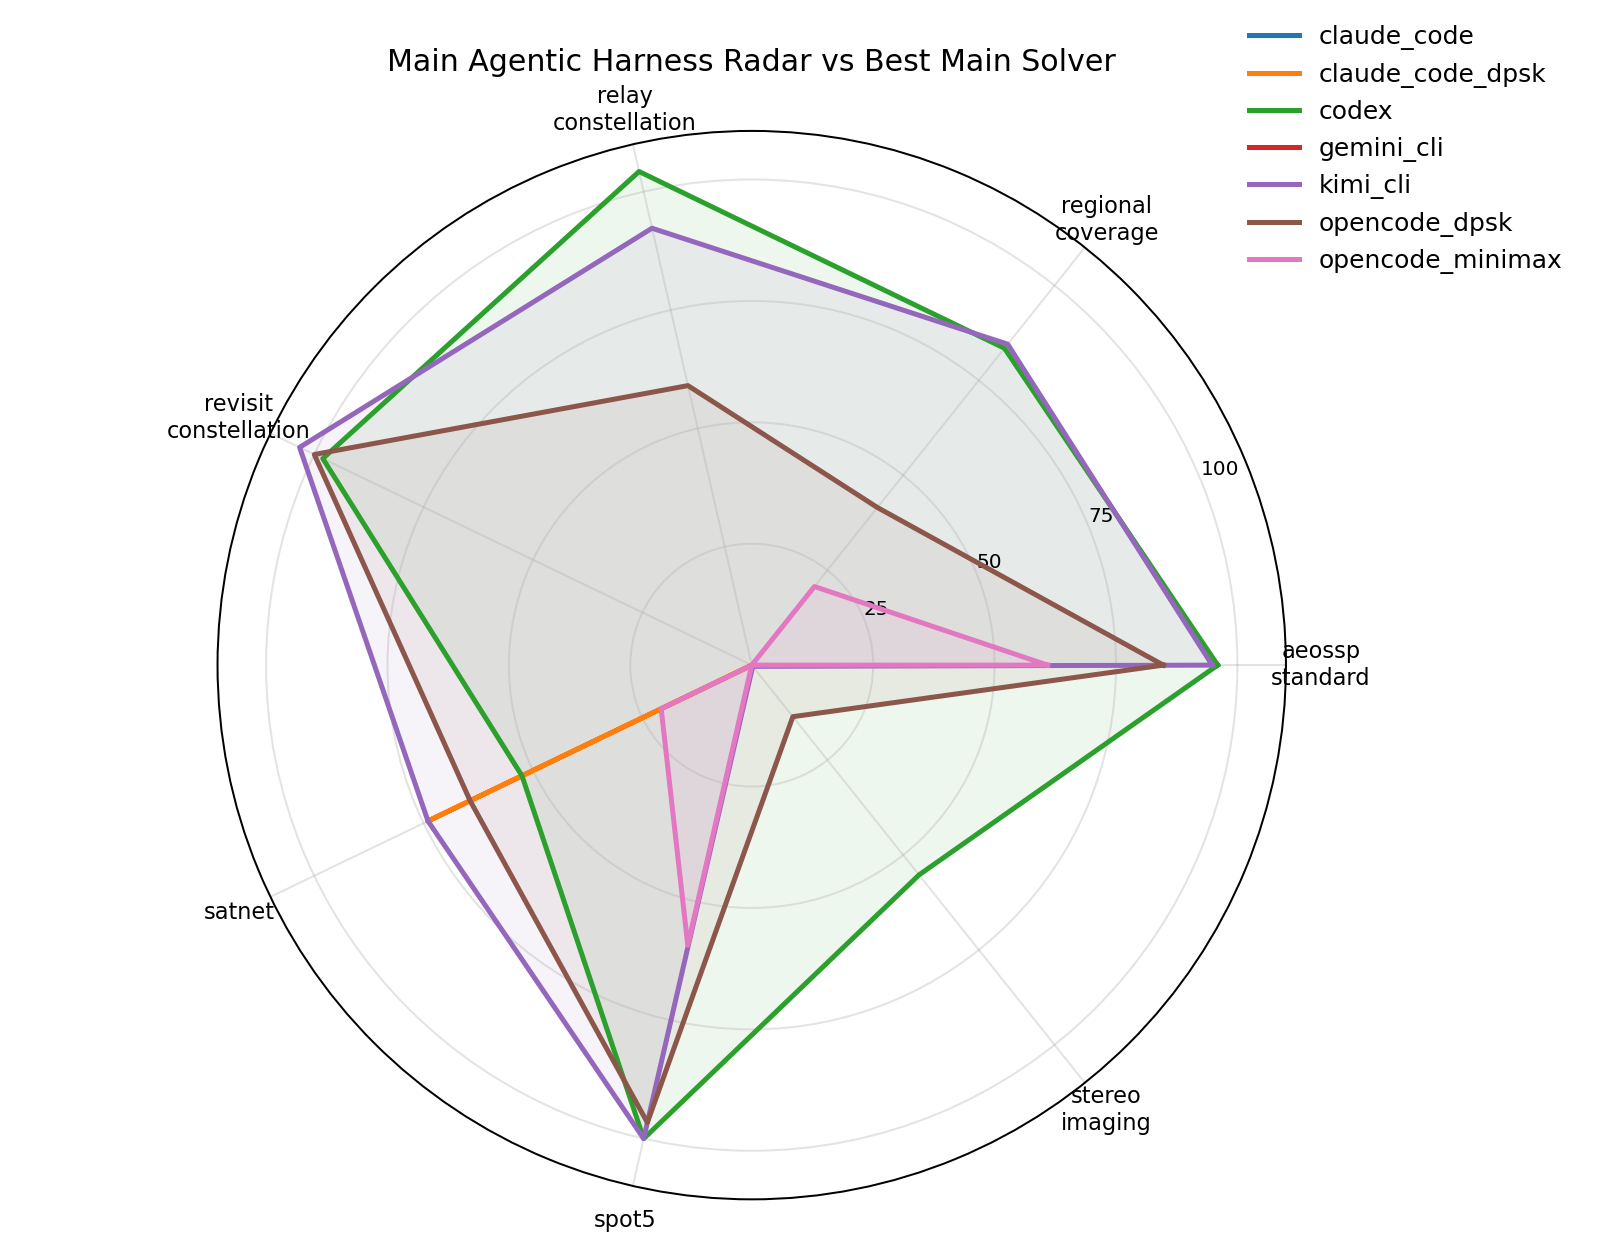
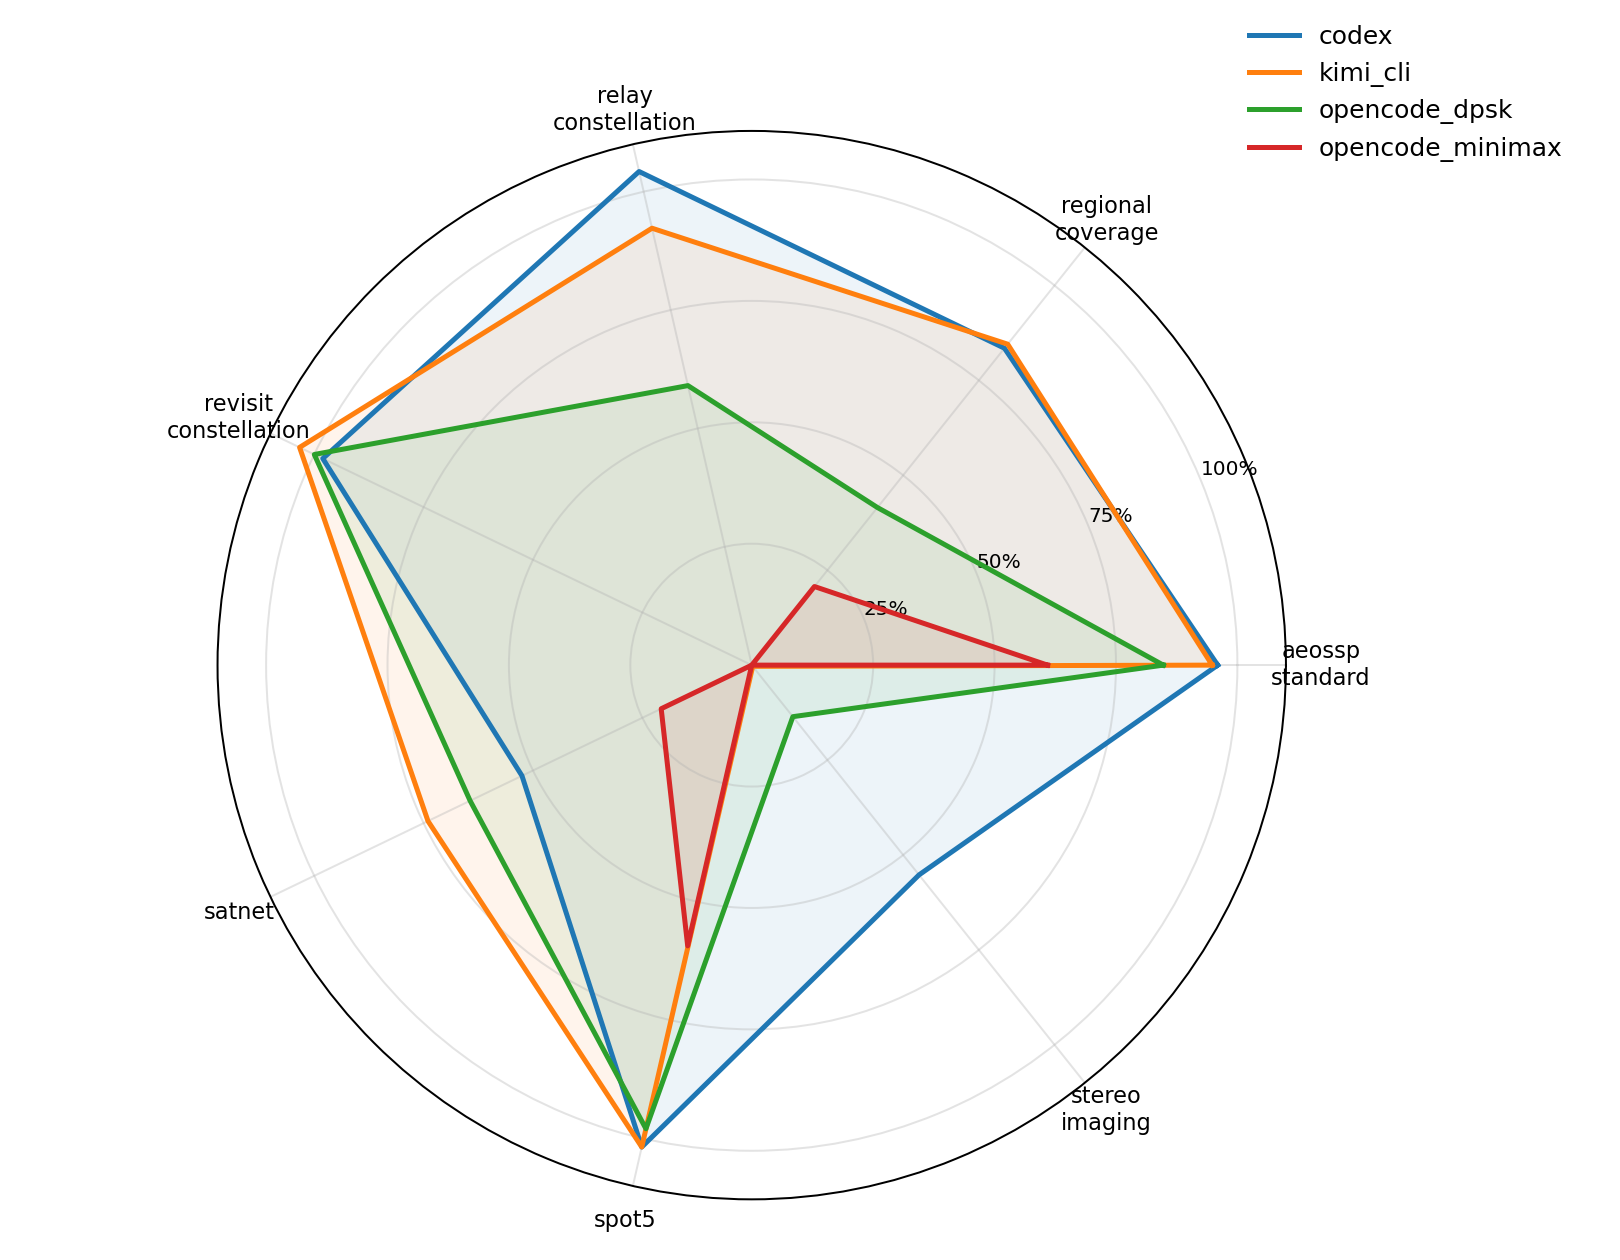
Fix SPOT5 normalized score denominator

diff --git a/experiments/main_agentic/plot_radar.py b/experiments/main_agentic/plot_radar.py
@@ -337,29 +337,6 @@ def _normalization_config(
     return config if isinstance(config, dict) else {}
 
 
-def _case_total_possible_profit(
-    baseline_data: dict[str, object],
-    *,
-    split: str,
-    case_id: str,
-) -> float | None:
-    best_profit: float | None = None
-    for row in _baseline_rows(baseline_data):
-        if (
-            row.get("benchmark") != "spot5"
-            or row.get("split") != split
-            or str(row.get("case_id")) != case_id
-        ):
-            continue
-        metrics = row.get("metrics")
-        if not isinstance(metrics, dict):
-            continue
-        profit = score_norm.to_float(metrics.get("computed_profit"))
-        if profit is not None:
-            best_profit = profit if best_profit is None else max(best_profit, profit)
-    return best_profit
-
-
 def _normalized_score_pct(
     *,
     benchmark: str,
@@ -431,11 +408,7 @@ def _normalized_score_pct(
     if benchmark == "spot5":
         return score_norm.spot5_score_pct(
             computed_profit=metrics.get("computed_profit"),
-            total_possible_profit=_case_total_possible_profit(
-                baseline_data,
-                split=split,
-                case_id=case_id,
-            ),
+            total_possible_profit=family_aggregate._spot5_max_profit(split, case_id),
         )
     if benchmark == "stereo_imaging":
         return score_norm.stereo_imaging_score_pct(
@@ -583,8 +556,7 @@ def _plot_radar(
     ax.set_xticklabels(labels, fontsize=9)
     ax.set_ylim(0, radial_max)
     ax.set_yticks([tick for tick in (25, 50, 75, 100) if tick <= radial_max])
-    ax.set_yticklabels([str(tick) for tick in ax.get_yticks()], fontsize=8)
-    ax.set_title("Main Agentic Harness Radar vs Best Main Solver", pad=24)
+    ax.set_yticklabels([f"{tick:g}%" for tick in ax.get_yticks()], fontsize=8)
     ax.legend(loc="upper right", bbox_to_anchor=(1.28, 1.12), frameon=False)
     ax.grid(True, alpha=0.35)
 

diff --git a/experiments/main_agentic/aggregate.py b/experiments/main_agentic/aggregate.py
@@ -254,18 +254,22 @@ def _spot5_reference_profit(split: str, case_id: str) -> int | None:
     return sum(profit for profit, assignment in zip(profits, assignments) if assignment != 0)
 
 
+def _spot5_max_profit(split: str, case_id: str) -> int | None:
+    profits = _spot5_case_profits(split, case_id)
+    return None if profits is None else sum(profits)
+
+
 def _spot5_profit_score_pct(item: family_plan.RunItem, verifier_payload: dict[str, Any]) -> float | None:
     metrics = verifier_payload.get("metrics")
     if not isinstance(metrics, dict):
         return None
     computed_profit = _coerce_numeric(metrics.get("computed_profit"))
-    reference_profit = _spot5_reference_profit(item.split, item.case_id)
-    if computed_profit is None or reference_profit is None or reference_profit <= 0:
+    max_profit = _spot5_max_profit(item.split, item.case_id)
+    if computed_profit is None or max_profit is None or max_profit <= 0:
         return None
     return score_norm.spot5_score_pct(
         computed_profit=computed_profit,
-        total_possible_profit=reference_profit,
-        clip=False,
+        total_possible_profit=max_profit,
     )
 
 

diff --git a/tests/experiments/test_main_agentic_aggregate.py b/tests/experiments/test_main_agentic_aggregate.py
@@ -83,13 +83,17 @@ def test_spot5_reference_profit_uses_computed_fixture_profit() -> None:
     assert aggregate._spot5_reference_profit("test", "1021") == 169243
 
 
-def test_spot5_profit_score_normalizes_against_reference_profit() -> None:
+def test_spot5_max_profit_uses_unconstrained_case_profit() -> None:
+    assert aggregate._spot5_max_profit("test", "8") == 12
+
+
+def test_spot5_profit_score_normalizes_against_max_profit() -> None:
     score = aggregate._spot5_profit_score_pct(
         _item("spot5", "8"),
         {"metrics": {"computed_profit": 5}},
     )
 
-    assert score == pytest.approx(50.0)
+    assert score == pytest.approx(100.0 * 5 / 12)
 
 
 def test_group_summary_processed_metric_mean_includes_invalid_zero() -> None:

diff --git a/experiments/main_agentic/reports/spot5.md b/experiments/main_agentic/reports/spot5.md
@@ -4,47 +4,47 @@ Generated from the current `main_agentic` aggregate summaries.
 
 | Harness | Present | Success | Valid | Invalid | Timeout | Primary Mean | Normalized Mean |
 | --- | ---: | ---: | ---: | ---: | ---: | ---: | ---: |
-| codex | 5 | 5 | 5 | 0 | 0 | computed_profit=115339.4 | 100.0 |
-| kimi_cli | 5 | 5 | 5 | 0 | 0 | computed_profit=115339.4 | 100.0 |
-| opencode_minimax | 5 | 4 | 4 | 0 | 0 | computed_profit=56820.5 | 59.18 |
-| opencode_dpsk | 5 | 5 | 5 | 0 | 0 | computed_profit=112136.4 | 96.60 |
+| codex | 5 | 5 | 5 | 0 | 0 | computed_profit=115339.4 | 37.63 |
+| kimi_cli | 5 | 5 | 5 | 0 | 0 | computed_profit=115339.4 | 37.63 |
+| opencode_minimax | 5 | 4 | 4 | 0 | 0 | computed_profit=56820.5 | 25.40 |
+| opencode_dpsk | 5 | 5 | 5 | 0 | 0 | computed_profit=112136.4 | 35.46 |
 
 ## codex
 
 | Case | Valid | Duration (s) | Normalized Score | computed_profit | computed_weight | computed_selected |
 | --- | --- | ---: | ---: | ---: | ---: | ---: |
-| 1021 | true | 585.1 | 100.0 | 176246 | 200 | 312 |
-| 1403 | true | 742.6 | 100.0 | 176141 | 200 | 218 |
-| 1506 | true | 319.5 | 100.0 | 168247 | 200 | 307 |
-| 28 | true | 124.4 | 100.0 | 56053 | 0 | 47 |
-| 8 | true | 81.73 | 100.0 | 10 | 0 | 7 |
+| 1021 | true | 585.1 | 27.72 | 176246 | 200 | 312 |
+| 1403 | true | 742.6 | 27.72 | 176141 | 200 | 218 |
+| 1506 | true | 319.5 | 32.18 | 168247 | 200 | 307 |
+| 28 | true | 124.4 | 17.19 | 56053 | 0 | 47 |
+| 8 | true | 81.73 | 83.33 | 10 | 0 | 7 |
 
 ## kimi_cli
 
 | Case | Valid | Duration (s) | Normalized Score | computed_profit | computed_weight | computed_selected |
 | --- | --- | ---: | ---: | ---: | ---: | ---: |
-| 1021 | true | 3925.4 | 100.0 | 176246 | 200 | 312 |
-| 1403 | true | 3632.8 | 100.0 | 176141 | 200 | 218 |
-| 1506 | true | 388.8 | 100.0 | 168247 | 200 | 306 |
-| 28 | true | 147.5 | 100.0 | 56053 | 0 | 46 |
-| 8 | true | 55.86 | 100.0 | 10 | 0 | 7 |
+| 1021 | true | 3925.4 | 27.72 | 176246 | 200 | 312 |
+| 1403 | true | 3632.8 | 27.72 | 176141 | 200 | 218 |
+| 1506 | true | 388.8 | 32.18 | 168247 | 200 | 306 |
+| 28 | true | 147.5 | 17.19 | 56053 | 0 | 46 |
+| 8 | true | 55.86 | 83.33 | 10 | 0 | 7 |
 
 ## opencode_dpsk
 
 | Case | Valid | Duration (s) | Normalized Score | computed_profit | computed_weight | computed_selected |
 | --- | --- | ---: | ---: | ---: | ---: | ---: |
-| 1021 | true | 1318.3 | 100.0 | 176246 | 200 | 312 |
-| 1403 | true | 7201.1 | 93.02 | 160127 | 200 | 194 |
-| 1506 | true | 608.6 | 100.0 | 168247 | 200 | 309 |
-| 28 | true | 354.0 | 100.0 | 56053 | 0 | 46 |
-| 8 | true | 150.1 | 90.00 | 9 | 0 | 6 |
+| 1021 | true | 1318.3 | 27.72 | 176246 | 200 | 312 |
+| 1403 | true | 7201.1 | 25.20 | 160127 | 200 | 194 |
+| 1506 | true | 608.6 | 32.18 | 168247 | 200 | 309 |
+| 28 | true | 354.0 | 17.19 | 56053 | 0 | 46 |
+| 8 | true | 150.1 | 75.00 | 9 | 0 | 6 |
 
 ## opencode_minimax
 
 | Case | Valid | Duration (s) | Normalized Score | computed_profit | computed_weight | computed_selected |
 | --- | --- | ---: | ---: | ---: | ---: | ---: |
-| 1021 | true | 1287.0 | 100.0 | 170198 | 200 | 244 |
+| 1021 | true | 1287.0 | 26.77 | 170198 | 200 | 244 |
 | 1403 | false | 1395.3 | 0.0000 | - | - | - |
-| 1506 | true | 3609.3 | 3.0601 | 5026 | 28 | 18 |
-| 28 | true | 4889.6 | 92.85 | 52048 | 0 | 43 |
-| 8 | true | 1040.7 | 100.0 | 10 | 0 | 7 |
+| 1506 | true | 3609.3 | 0.9613 | 5026 | 28 | 18 |
+| 28 | true | 4889.6 | 15.96 | 52048 | 0 | 43 |
+| 8 | true | 1040.7 | 83.33 | 10 | 0 | 7 |
